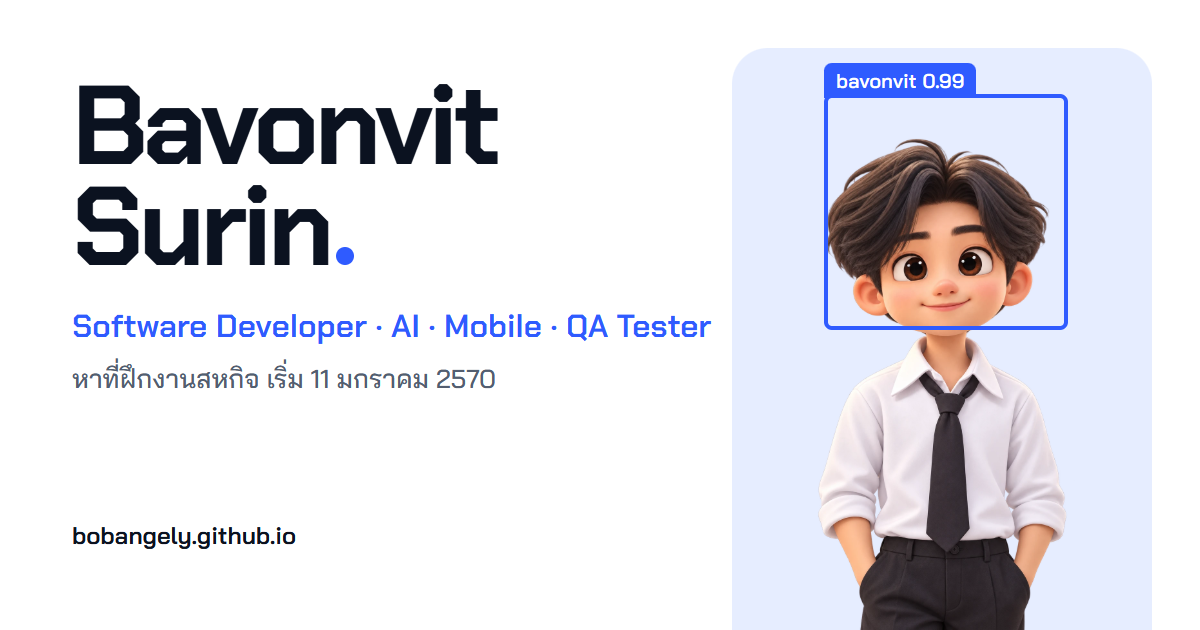
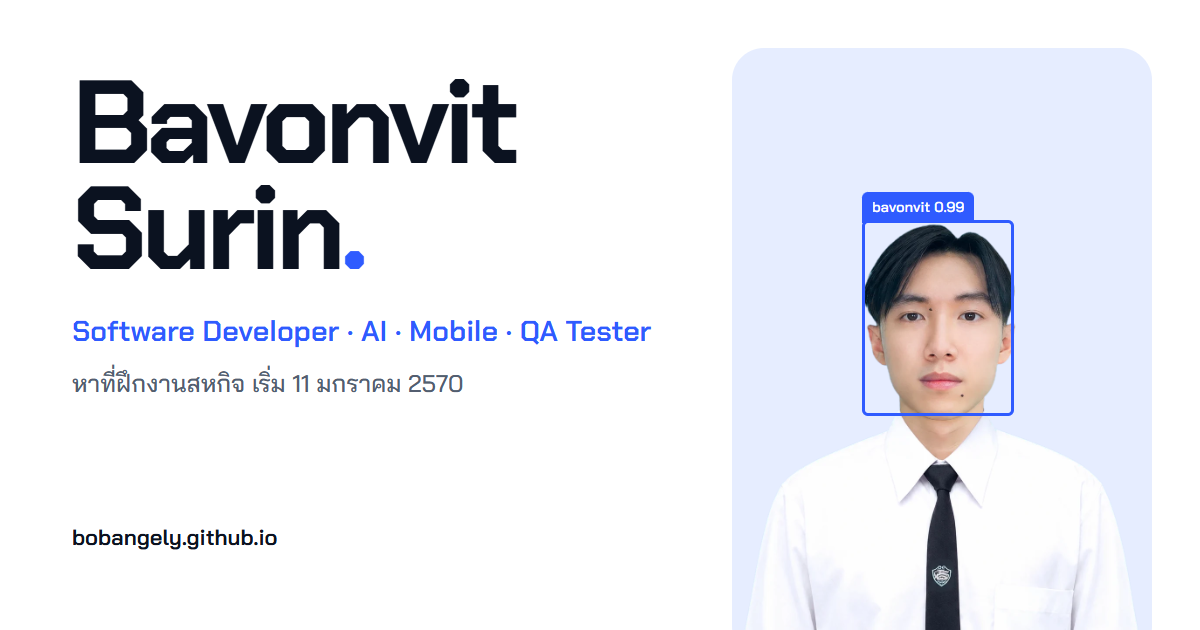
Hero: real photo instead of the AI cartoon

diff --git a/index.html b/index.html
@@ -18,7 +18,7 @@
   <link rel="preconnect" href="https://fonts.gstatic.com" crossorigin>
   <link rel="preload" as="style" href="https://fonts.googleapis.com/css2?family=Chakra+Petch:wght@500;600;700&family=Bai+Jamjuree:wght@400;500;600&display=swap" onload="this.onload=null;this.rel='stylesheet'">
   <noscript><link rel="stylesheet" href="https://fonts.googleapis.com/css2?family=Chakra+Petch:wght@500;600;700&family=Bai+Jamjuree:wght@400;500;600&display=swap"></noscript>
-  <link rel="preload" as="image" href="assets/avatar.webp">
+  <link rel="preload" as="image" href="assets/portrait.webp">
   <link rel="stylesheet" href="style.css">
 </head>
 <body>
@@ -36,7 +36,7 @@
     <section class="hero">
       <figure class="hero__portrait" data-hero-fade>
         <div class="portrait__frame">
-          <img src="assets/avatar.webp" width="1024" height="1536" alt="ภาพการ์ตูนของบวรวิชญ์ สุรินทร์ ใส่เสื้อเชิ้ตขาวผูกเนคไทสีดำ">
+          <img src="assets/portrait.webp" width="916" height="999" alt="รูปถ่ายของบวรวิชญ์ สุรินทร์ ใส่เสื้อเชิ้ตขาวผูกเนคไทสีดำ">
           <!-- a YOLO-style detection box around the face: the page's signature -->
           <div class="detect" aria-hidden="true">
             <span class="detect__label"><span class="detect__name">bavonvit</span> <span data-confidence>0.99</span></span>

diff --git a/style.css b/style.css
@@ -121,15 +121,15 @@ ul { padding: 0; list-style: none; }
   overflow: hidden;
 }
 /* frame is sized by the image, so the box percentages always map onto the face */
-.portrait__frame { position: relative; width: min(78%, 46svh); margin-top: 48px; }
+.portrait__frame { position: relative; width: min(88%, 60svh); margin-top: 56px; }
 .portrait__frame img { width: 100%; }
-/* YOLO-style box around the face; percentages follow the face in avatar.webp (1024x1536) */
+/* YOLO-style box around the face; percentages follow the face in portrait.webp (916x999) */
 .detect {
   position: absolute;
-  left: 14%;
-  top: 2%;
-  width: 68%;
-  height: 37%;
+  left: 30%;
+  top: 6%;
+  width: 38%;
+  height: 45%;
   border: 3px solid var(--accent);
   border-radius: 6px;
 }
@@ -161,7 +161,7 @@ ul { padding: 0; list-style: none; }
   .hero { grid-template-columns: minmax(0, 1fr); min-height: 0; }
   .hero__text { order: -1; }
   .hero__portrait { min-height: 0; }
-  .portrait__frame { width: min(70%, 360px); }
+  .portrait__frame { width: min(80%, 420px); }
 }
 @media (max-width: 480px) {
   .hero__facts { grid-template-columns: minmax(0, 1fr); }

diff --git a/main.js b/main.js
@@ -190,12 +190,10 @@
     const conf = detect.querySelector('[data-confidence]');
     const moveX = gsap.quickTo(detect, 'x', { duration: 0.45, ease: 'power3.out' });
     const moveY = gsap.quickTo(detect, 'y', { duration: 0.45, ease: 'power3.out' });
-    // rough regions of avatar.webp, as fractions of the frame (x from left, y from top)
+    // rough regions of portrait.webp, as fractions of the frame (x from left, y from top)
     const label = (fx, fy) => {
-      if (fx < 0.12 || fx > 0.88 || fy < 0) return ['background', '0.12'];
-      if (fy < 0.4) return ['bavonvit', '0.99'];
-      if (fy < 0.72) return fx > 0.42 && fx < 0.58 ? ['tie', '0.91'] : ['shirt', '0.94'];
-      return ['pants', '0.89'];
+      if (fy < 0.5) return fy >= 0 && fx > 0.3 && fx < 0.68 ? ['bavonvit', '0.99'] : ['background', '0.12'];
+      return fx > 0.45 && fx < 0.55 ? ['tie', '0.91'] : ['shirt', '0.94'];
     };
     const setLabel = ([n, c]) => { if (name.textContent !== n) { name.textContent = n; conf.textContent = c; } };
     portrait.addEventListener('pointermove', e => {
